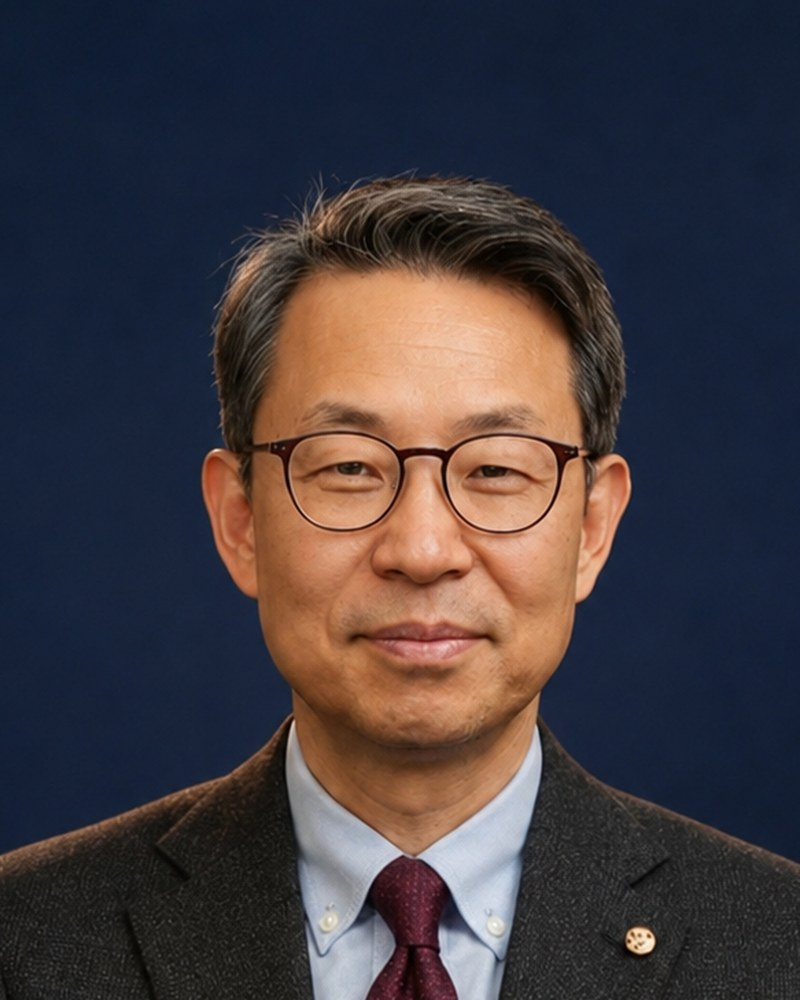
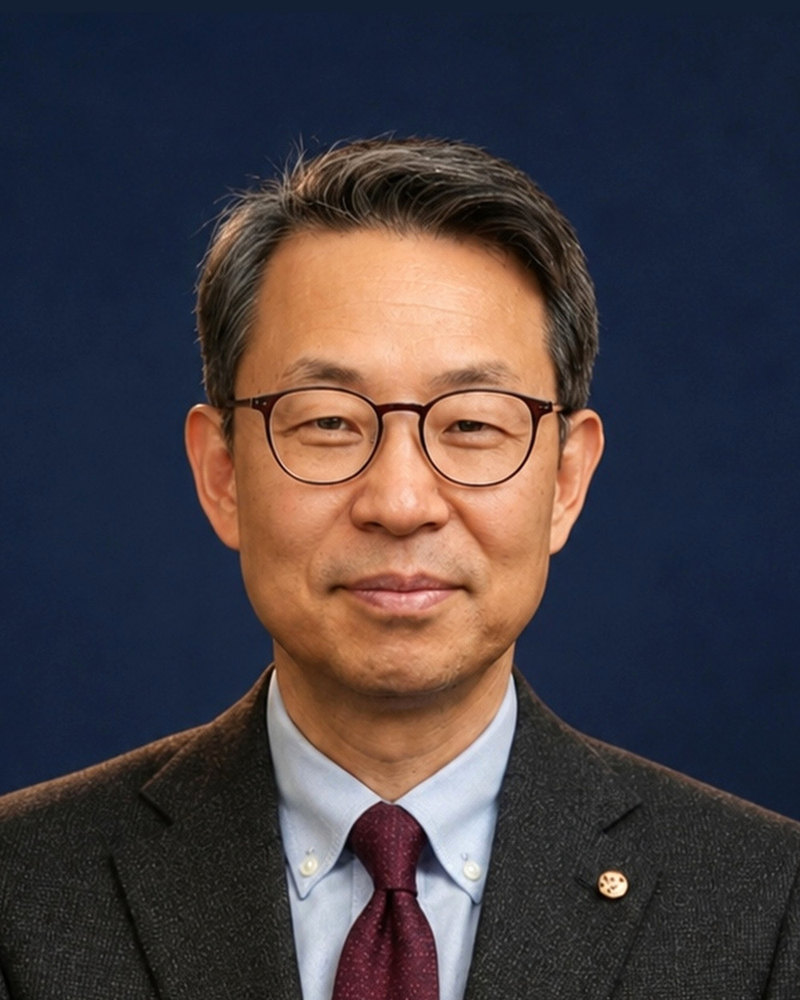
gv-youth: 제46차 강사 사진 통일 (양재영·이우제 리플렛 사진, 서태근·박재용 톤 조정, 포스터 갱신)
- 양재영·이우제: 리플렛 03면 사진 그대로, 얼굴 크기를 나머지 5인과 같은 기준(얼굴상자 41.9%)으로 맞춤
- 서태근: 전체 ×0.86 + 얼굴만 ×0.90(어깨·셔츠·배경은 그대로)
- 박재용: ×1.04 한 단계 밝게
- 포스터 그림(poster-46.jpg·poster-46-full.jpg)을 오늘 확정한 A2 포스터로 교체
- 이우제 약력에서 '스콜라보스 콘텐츠 대표' 삭제(11-26 15:50 인쇄본과 동일)
- sw.js 캐시 gv-youth-shell-v3 → v4 (같은 파일명 이미지가 캐시로 남지 않게)

diff --git a/gv-youth/bible-conference-brochure.html b/gv-youth/bible-conference-brochure.html
@@ -355,7 +355,7 @@
           </article>
           <article class="spk__card">
             <div class="spk__ph"><img src="assets/images/conf46/spk46-02.jpg" alt="이우제 교수" width="520" height="650" loading="lazy" /></div>
-            <div class="spk__tx"><b>이우제 교수</b><span>백석대 설교학 · Th.D.<br />스콜라보스 콘텐츠 대표</span></div>
+            <div class="spk__tx"><b>이우제 교수</b><span>백석대 설교학 · Th.D.</span></div>
           </article>
           <article class="spk__card">
             <div class="spk__ph"><img src="assets/images/conf46/spk46-03.jpg" alt="서태근 목사" width="520" height="650" loading="lazy" /></div>

diff --git a/gv-youth/sw.js b/gv-youth/sw.js
@@ -3,7 +3,7 @@
    gv-youth 폴더 범위(scope: /Church/gv-youth/)만 담당한다.
    화면은 항상 네트워크에서 먼저 받아 오고, 네트워크가 없을 때만 최근에 받아 둔 사본을 쓴다. */
 
-const CACHE = 'gv-youth-shell-v3';
+const CACHE = 'gv-youth-shell-v4';
 const SHELL = [
   './index.html',
   './assets/styles.css',
